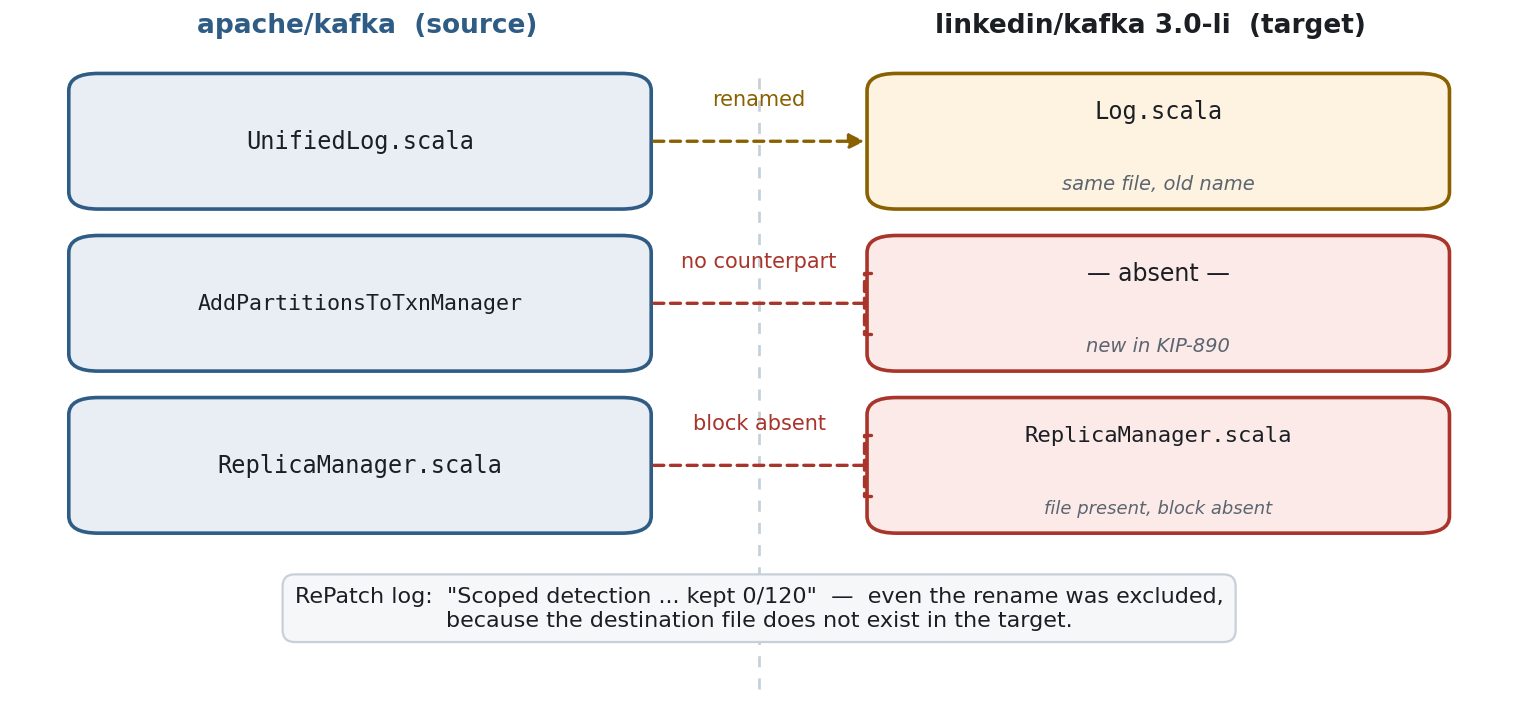
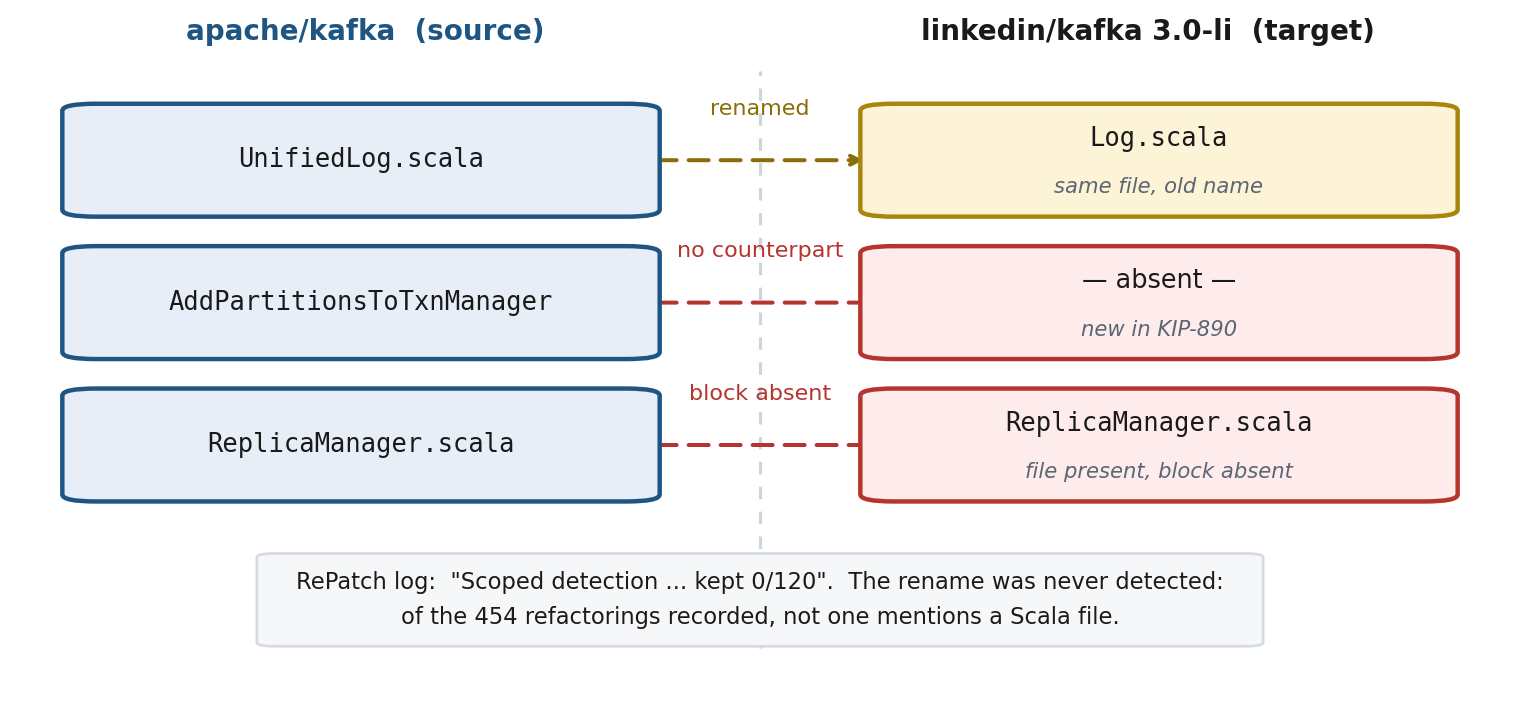
Record the 25 November re-run that corrects the #14088 rename claim
A fifth RePatch run on #14088 reproduced the verdict a third time and let me
read the database rather than infer from the summary. Two things came out of
it. None of the 454 detected refactorings mentions a Scala file, so the
Log.scala to UnifiedLog.scala rename was never detected, not detected and
then discarded by scoping as I wrote in the Intermediate. And the run names
seven conflicting files in its log while storing one in conflicting_file,
which settles the file-count observation that was a hypothesis until now.

The design-gap figure carried the old explanation in its footer and has been
redrawn to match.

diff --git a/llm-assisted/Shreem/EVIDENCE-README.md b/llm-assisted/Shreem/EVIDENCE-README.md
@@ -29,6 +29,15 @@ every PR that failed, RePatch verdict tables for all four runs, and two analyses
 into four blocks, and `Cat04-repatch-file-counting-finding.txt`, which records that RePatch's
 file count omits Scala files and modify/delete conflicts.
 
+Two files from a fifth run on 25 November 2026. `Cat04#14088-repatch-rerun-25nov.log` is the
+console output of `repatch lab apache/kafka linkedin/kafka 14088`, with the IntelliJ indexer
+warnings stripped and everything else intact; it carries the `Conflicting files (7)` line and
+both `Scoped detection` lines. `Cat04-repatch-log-vs-database-finding.txt` records what that run
+settled: RePatch names seven conflicting files in its log and stores one in `conflicting_file`,
+and none of the 454 refactorings it detected mentions a Scala file, so the `Log.scala` to
+`UnifiedLog.scala` rename was never detected rather than detected and discarded. That corrects
+what I wrote in the Intermediate Report.
+
 The LLM prompts, raw model responses, generated patches and verification logs are not here.
 They live under `llm-assisted/Shreem/part-a/` and `part-b/` on this same branch.
 
